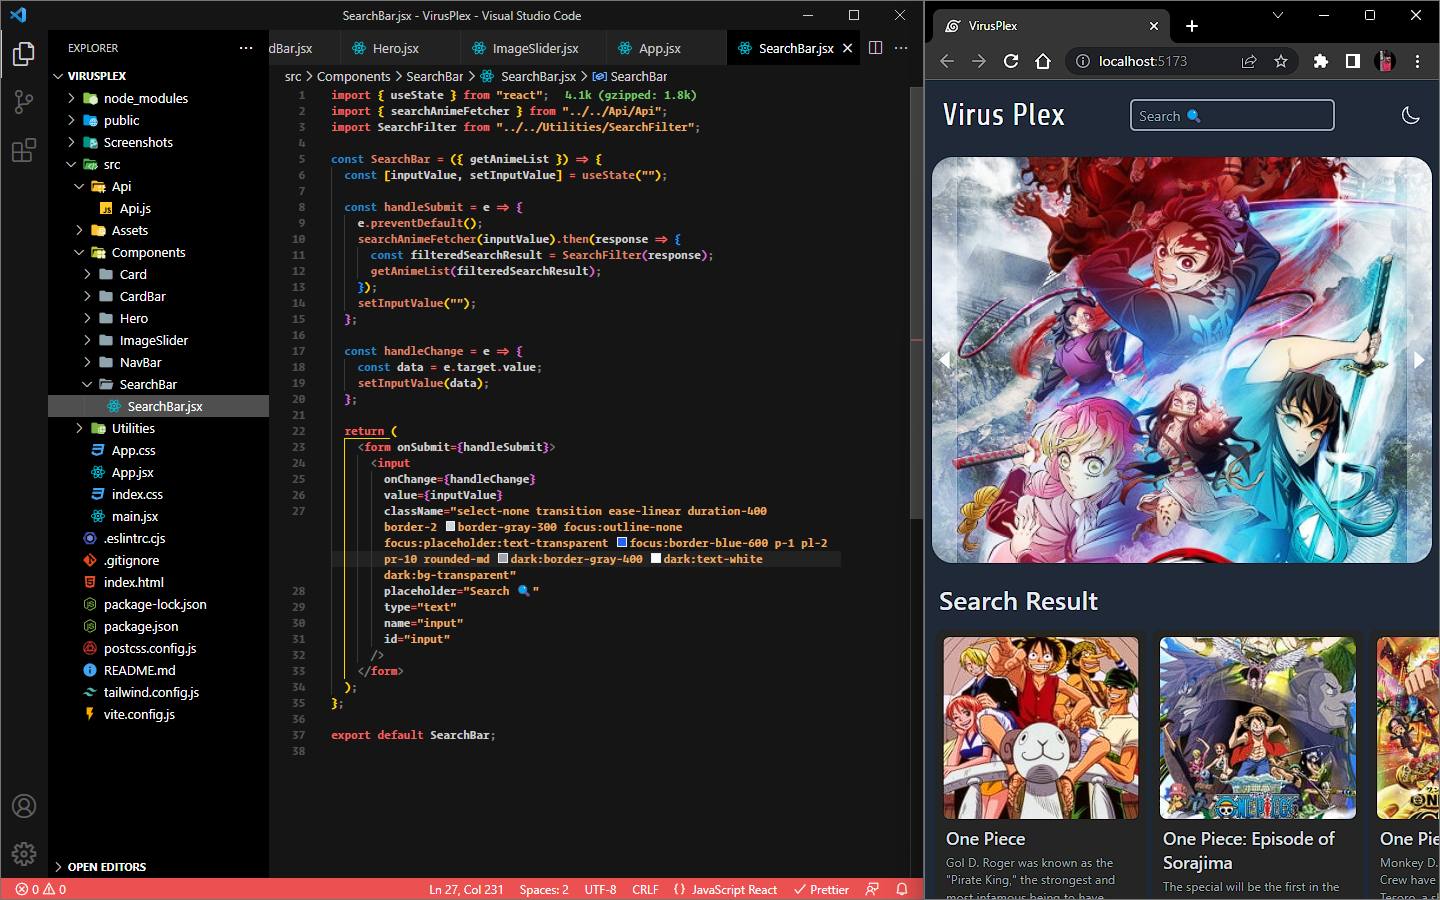
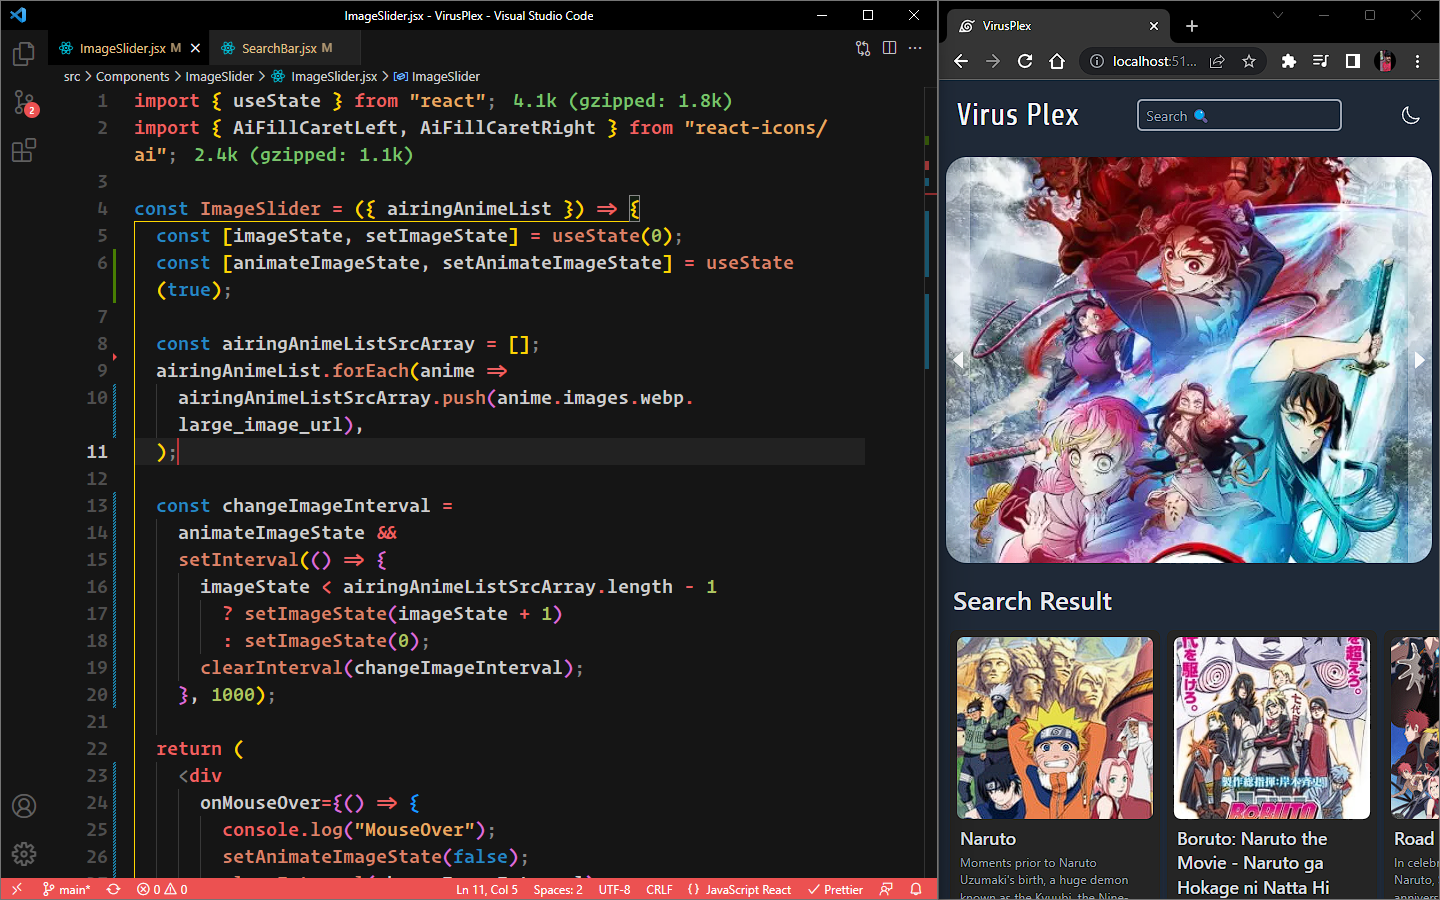
Animation for slider

Changed region(s): [[0.0, 0.0, 1.0, 1.0]]

diff --git a/src/Components/ImageSlider/ImageSlider.jsx b/src/Components/ImageSlider/ImageSlider.jsx
@@ -3,22 +3,32 @@ import { AiFillCaretLeft, AiFillCaretRight } from "react-icons/ai";
 
 const ImageSlider = ({ airingAnimeList }) => {
   const [imageState, setImageState] = useState(0);
+  const [animateImageState, setAnimateImageState] = useState(true);
 
   const airingAnimeListSrcArray = [];
-
   airingAnimeList.forEach(anime =>
-    airingAnimeListSrcArray.push(anime.images.jpg.large_image_url),
+    airingAnimeListSrcArray.push(anime.images.webp.large_image_url),
   );
 
-  const changeImageInterval = setInterval(() => {
-    imageState < airingAnimeListSrcArray.length - 1
-      ? setImageState(imageState + 1)
-      : setImageState(0);
-    clearInterval(changeImageInterval);
-  }, 1500);
+  const changeImageInterval =
+    animateImageState &&
+    setInterval(() => {
+      imageState < airingAnimeListSrcArray.length - 1
+        ? setImageState(imageState + 1)
+        : setImageState(0);
+      clearInterval(changeImageInterval);
+    }, 1000);
 
   return (
-    <div className="relative h-full rounded-3xl cursor-pointer">
+    <div
+      onMouseOver={() => {
+        console.log("MouseOver");
+        setAnimateImageState(false);
+        clearInterval(changeImageInterval);
+      }}
+      onMouseOut={() => setAnimateImageState(true)}
+      className="relative h-full rounded-3xl cursor-pointer"
+    >
       <AiFillCaretLeft
         onClick={() => {
           imageState === 0

diff --git a/src/Components/SearchBar/SearchBar.jsx b/src/Components/SearchBar/SearchBar.jsx
@@ -7,11 +7,13 @@ const SearchBar = ({ getAnimeList }) => {
 
   const handleSubmit = e => {
     e.preventDefault();
-    searchAnimeFetcher(inputValue).then(response => {
-      const filteredSearchResult = SearchFilter(response);
-      getAnimeList(filteredSearchResult);
-    });
-    setInputValue("");
+    if (inputValue.length !== 0) {
+      searchAnimeFetcher(inputValue).then(response => {
+        const filteredSearchResult = SearchFilter(response);
+        getAnimeList(filteredSearchResult);
+      });
+      setInputValue("");
+    }
   };
 
   const handleChange = e => {
